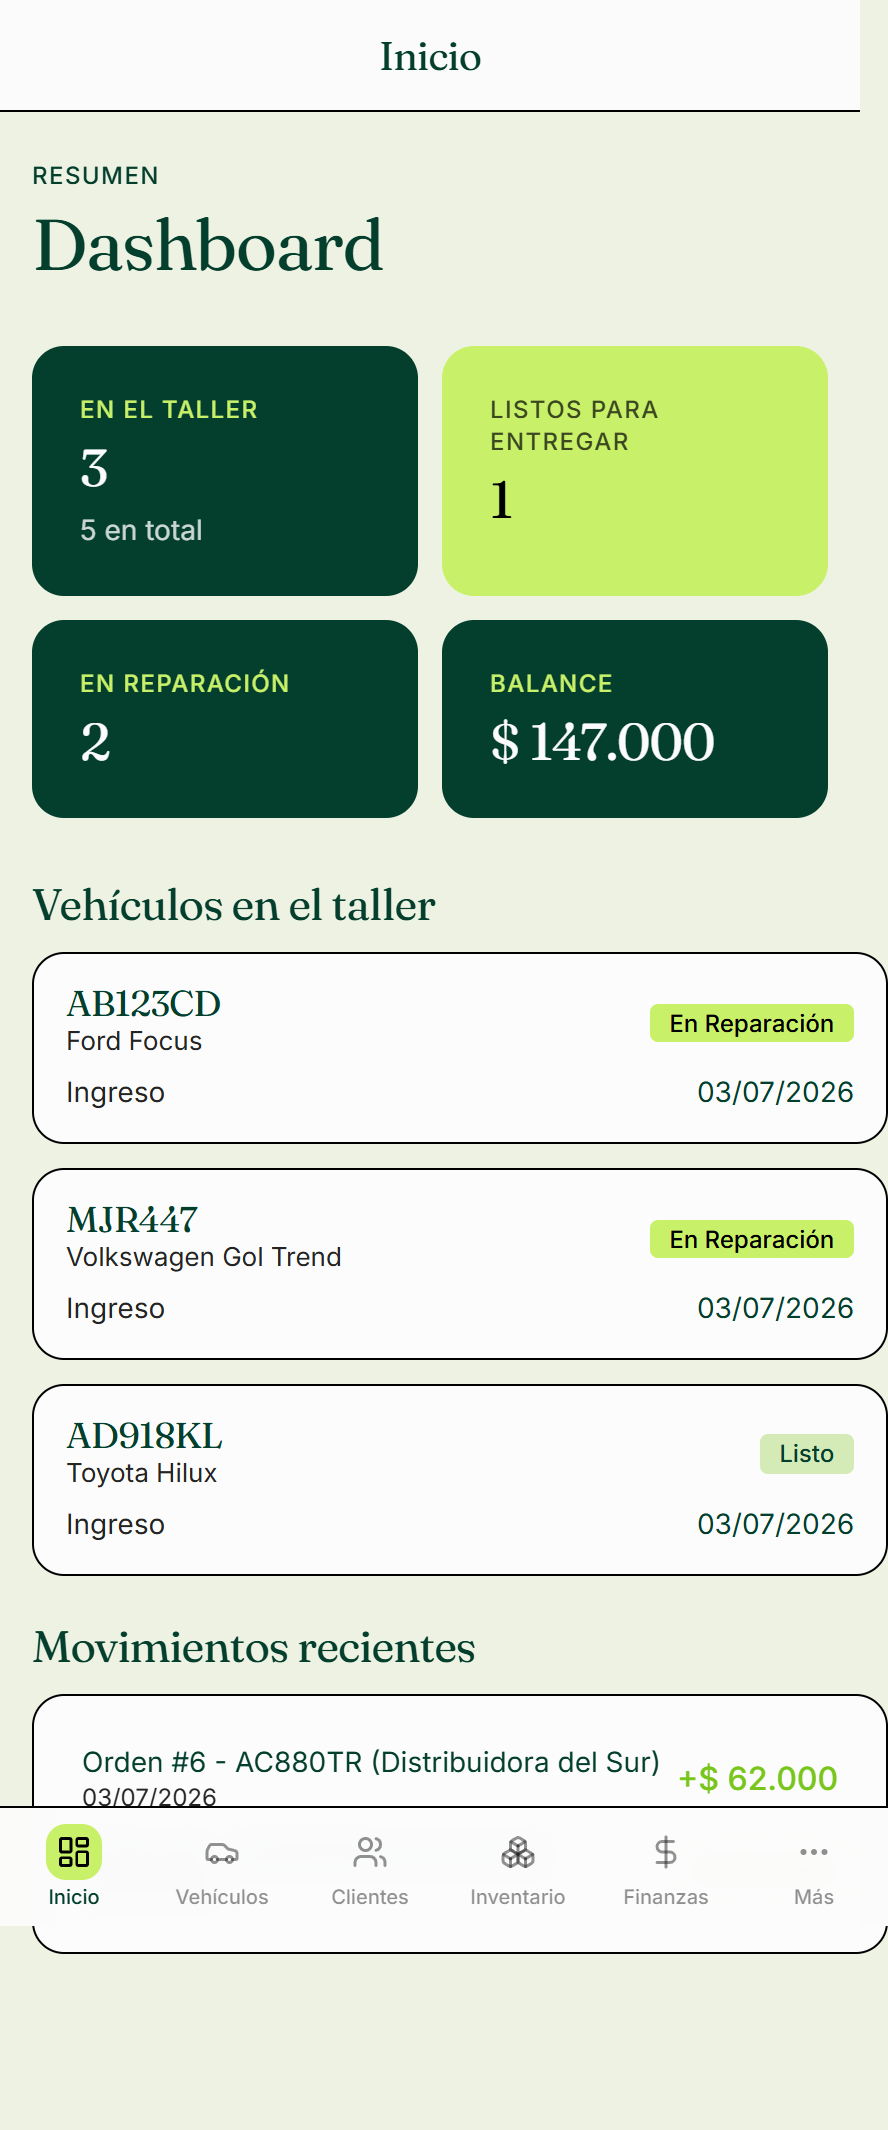
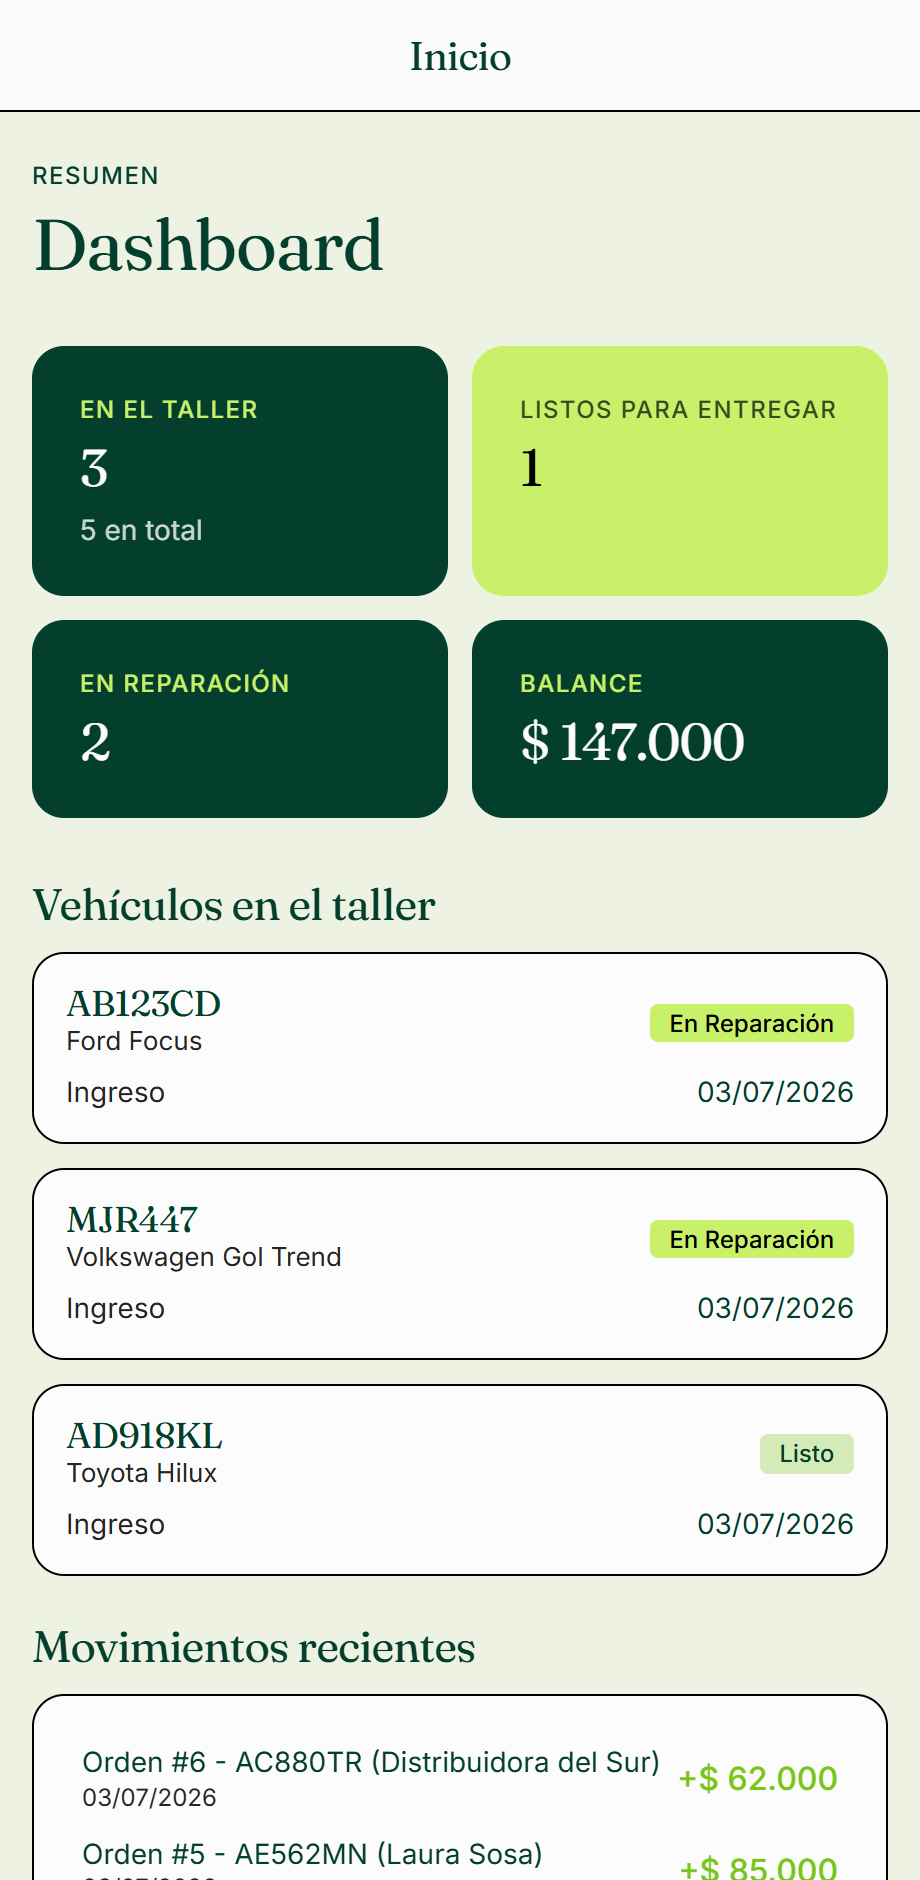
Presentaciones: capturas limpias (sin barra flotante ni recorte) + animaciones keynote
- Capturas mobile re-tomadas ocultando la barra inferior fixed (que se horneaba
  en el medio de la imagen full-page) y a 460px sin overflow horizontal → cards
  completas, contenido sin cortar a la derecha.
- engine.js: transiciones cinematográficas de profundidad entre escenas
  (crossfade + scale, sin cortes secos), coreografía por elemento ([data-anim]:
  fade-up/left/right, scale-in, blur→sharp con stagger), count-up ([data-count]),
  respeta prefers-reduced-motion.
- Planes con precios en count-up (0/9/9).

diff --git a/docs/presentations/engine.js b/docs/presentations/engine.js
@@ -1,9 +1,11 @@
-/* Motor de presentación Momec — split de texto, control de escenas, morph de fondo */
+/* Motor de presentación Momec — coreografía, transiciones cinematográficas,
+ * count-up, morph de fondo. Movimiento con propósito (Apple / Google I/O style). */
 (() => {
   const root = document.documentElement;
   const scenes = [...document.querySelectorAll(".scene")];
   const bar = document.getElementById("bar");
   const hint = document.getElementById("hint");
+  const reduce = matchMedia("(prefers-reduced-motion: reduce)").matches;
 
   const BG = {
     deep: { g1: "#0f2c1e", g2: "#0a1a12", glow: "rgba(120,197,28,.20)" },
@@ -12,13 +14,13 @@
     dark: { g1: "#0a1a12", g2: "#05100b", glow: "rgba(120,197,28,.32)" },
   };
 
-  // Split text into animated spans (word | char), optional scatter vars
+  /* Split text (word|char) into spans for staggered reveals */
   scenes.forEach((sc) => {
     sc.querySelectorAll("[data-split]").forEach((el) => {
       const mode = el.dataset.split;
       const scatter = el.hasAttribute("data-scatter");
-      const src = document.createElement("div");
-      src.innerHTML = el.innerHTML;
+      const srcNode = document.createElement("div");
+      srcNode.innerHTML = el.innerHTML;
       const out = document.createElement("span");
       (function build(node, dst) {
         node.childNodes.forEach((n) => {
@@ -36,7 +38,7 @@
             build(n, c);
           }
         });
-      })(src, out);
+      })(srcNode, out);
       el.innerHTML = out.innerHTML;
       [...el.querySelectorAll("span")].forEach((s, i) => {
         s.style.setProperty("--i", i);
@@ -48,9 +50,30 @@
         }
       });
     });
+    /* Auto-secuencia de elementos coreografiados (orden del DOM) */
+    sc.querySelectorAll("[data-anim]").forEach((el, i) => {
+      if (!el.style.getPropertyValue("--seq")) el.style.setProperty("--seq", i);
+    });
   });
 
-  let i = 0, timer = null, t0 = 0, dur = 0, raf = null, playing = true;
+  /* Count-up (números que suben) */
+  function runCounts(sc) {
+    sc.querySelectorAll("[data-count]").forEach((el) => {
+      const target = parseFloat(el.dataset.count) || 0;
+      const pre = el.dataset.pre || "", suf = el.dataset.suf || "";
+      const dur = 1000, t0 = performance.now();
+      if (reduce) { el.textContent = pre + target.toLocaleString("es-AR") + suf; return; }
+      const step = (t) => {
+        const p = Math.min(1, (t - t0) / dur);
+        const eased = 1 - Math.pow(1 - p, 3);
+        el.textContent = pre + Math.round(target * eased).toLocaleString("es-AR") + suf;
+        if (p < 1 && sc.classList.contains("active")) requestAnimationFrame(step);
+      };
+      requestAnimationFrame(step);
+    });
+  }
+
+  let i = 0, timer = null, t0 = 0, dur = 0, raf = null, playing = true, leaveT = null;
 
   function applyBg(name) {
     const b = BG[name] || BG.deep;
@@ -64,14 +87,24 @@
     if (p < 1 && playing) raf = requestAnimationFrame(progress);
   }
   function show(n) {
-    cancelAnimationFrame(raf); clearTimeout(timer);
-    scenes.forEach((s) => s.classList.remove("active"));
+    cancelAnimationFrame(raf); clearTimeout(timer); clearTimeout(leaveT);
+    const prev = scenes[i];
     i = (n + scenes.length) % scenes.length;
-    const sc = scenes[i];
-    applyBg(sc.dataset.bg);
-    void sc.offsetWidth; // restart animations
-    sc.classList.add("active");
-    dur = +sc.dataset.dur || 5000;
+    const cur = scenes[i];
+    applyBg(cur.dataset.bg);
+    // Transición cinematográfica: la escena saliente se va con profundidad,
+    // la entrante llega desde el fondo (crossfade + scale) — sin cortes secos.
+    scenes.forEach((s) => { if (s !== cur && s !== prev) { s.classList.remove("active", "leaving"); } });
+    if (prev && prev !== cur) {
+      prev.classList.remove("active");
+      prev.classList.add("leaving");
+      leaveT = setTimeout(() => prev.classList.remove("leaving"), 700);
+    }
+    void cur.offsetWidth; // reinicia animaciones
+    cur.classList.remove("leaving");
+    cur.classList.add("active");
+    runCounts(cur);
+    dur = +cur.dataset.dur || 5000;
     t0 = performance.now();
     if (playing) { progress(); timer = setTimeout(() => show(i + 1), dur); }
   }

diff --git a/docs/presentations/presentacion.html b/docs/presentations/presentacion.html
@@ -22,9 +22,23 @@
   .grain{position:fixed;inset:0;z-index:1;opacity:.045;pointer-events:none;
     background-image:radial-gradient(#fff .5px,transparent .6px);background-size:3px 3px}
 
-  .scene{position:absolute;inset:0;display:grid;place-items:center;padding:5vmin;opacity:0;visibility:hidden;z-index:2;transition:opacity .5s}
-  .scene.active{opacity:1;visibility:visible}
+  /* Transición cinematográfica de profundidad (crossfade + scale, sin cortes) */
+  .scene{position:absolute;inset:0;display:grid;place-items:center;padding:5vmin;opacity:0;visibility:hidden;z-index:2;
+    transform:scale(1.025);transition:opacity .6s var(--ease),transform .95s var(--ease)}
+  .scene.active{opacity:1;visibility:visible;transform:none;z-index:3}
+  .scene.leaving{opacity:0;visibility:visible;transform:scale(.99);z-index:2;transition:opacity .45s var(--ease),transform .6s var(--ease)}
   .wrap{width:min(1180px,94vw);text-align:center;position:relative}
+
+  /* Coreografía por elemento (fade-up / left / right / scale / blur) */
+  [data-anim]{opacity:0;will-change:transform,opacity,filter}
+  .scene.active [data-anim]{animation-duration:.7s;animation-timing-function:var(--ease);animation-fill-mode:both;
+    animation-delay:calc(.16s + var(--seq,0)*.09s + var(--d,0s))}
+  [data-anim="fade-up"]{--from:translateY(30px)} [data-anim="fade-left"]{--from:translateX(-36px)}
+  [data-anim="fade-right"]{--from:translateX(36px)} [data-anim="scale-in"]{--from:scale(.9)}
+  .scene.active [data-anim="fade-up"],.scene.active [data-anim="fade-left"],.scene.active [data-anim="fade-right"],.scene.active [data-anim="scale-in"]{animation-name:reveal}
+  @keyframes reveal{from{opacity:0;transform:var(--from)}to{opacity:1;transform:none}}
+  .scene.active [data-anim="blur"]{animation-name:blurin}
+  @keyframes blurin{from{opacity:0;filter:blur(16px);transform:scale(1.03)}to{opacity:1;filter:blur(0);transform:none}}
 
   h1{font-family:var(--serif);font-weight:600;line-height:1.02;letter-spacing:-.015em;font-size:clamp(44px,9.2vmin,128px);text-wrap:balance}
   h2{font-family:var(--serif);font-weight:600;font-size:clamp(30px,6.2vmin,76px);line-height:1.05}
@@ -194,9 +208,9 @@
       <div class="eyebrow kin" data-split="word">Planes</div>
       <h2 class="kin" data-split="word" style="--d:.15s">Un bot que crece con tu taller.</h2>
       <div class="plans">
-        <div class="plan"><div class="t">Starter</div><div class="p">$20</div><div class="ai">Bot con IA · Haiku</div></div>
-        <div class="plan feat"><div class="t">Pro</div><div class="p">$49</div><div class="ai">IA Sonnet 5 · migración incluida</div></div>
-        <div class="plan"><div class="t">Max</div><div class="p">$99</div><div class="ai">Ilimitado · soporte prioritario</div></div>
+        <div class="plan"><div class="t">Starter</div><div class="p"><span data-count="20" data-pre="$"></span></div><div class="ai">Bot con IA · Haiku</div></div>
+        <div class="plan feat"><div class="t">Pro</div><div class="p"><span data-count="49" data-pre="$"></span></div><div class="ai">IA Sonnet 5 · migración incluida</div></div>
+        <div class="plan"><div class="t">Max</div><div class="p"><span data-count="99" data-pre="$"></span></div><div class="ai">Ilimitado · soporte prioritario</div></div>
       </div>
     </div>
   </section>

diff --git a/docs/presentations/presentacion-redes.html b/docs/presentations/presentacion-redes.html
@@ -24,9 +24,11 @@
       radial-gradient(120% 90% at 50% 50%, var(--g2), #05100b 74%);}
   .grain{position:absolute;inset:0;z-index:1;opacity:.05;pointer-events:none;background-image:radial-gradient(#fff .5px,transparent .6px);background-size:3px 3px}
 
-  .scene{position:absolute;inset:0;z-index:2;opacity:0;visibility:hidden;transition:opacity .45s;
+  .scene{position:absolute;inset:0;z-index:2;opacity:0;visibility:hidden;transform:scale(1.03);
+    transition:opacity .55s var(--ease),transform .9s var(--ease);
     display:flex;flex-direction:column;align-items:center;justify-content:space-between;padding:6% 6% 5%}
-  .scene.active{opacity:1;visibility:visible}
+  .scene.active{opacity:1;visibility:visible;transform:none;z-index:3}
+  .scene.leaving{opacity:0;visibility:visible;transform:scale(.985);z-index:2;transition:opacity .4s var(--ease),transform .55s var(--ease)}
   .top,.bottom{width:100%;text-align:center;flex:none}
   .mid{flex:1;display:flex;align-items:center;justify-content:center;width:100%;min-height:0;padding:3% 0}
 
